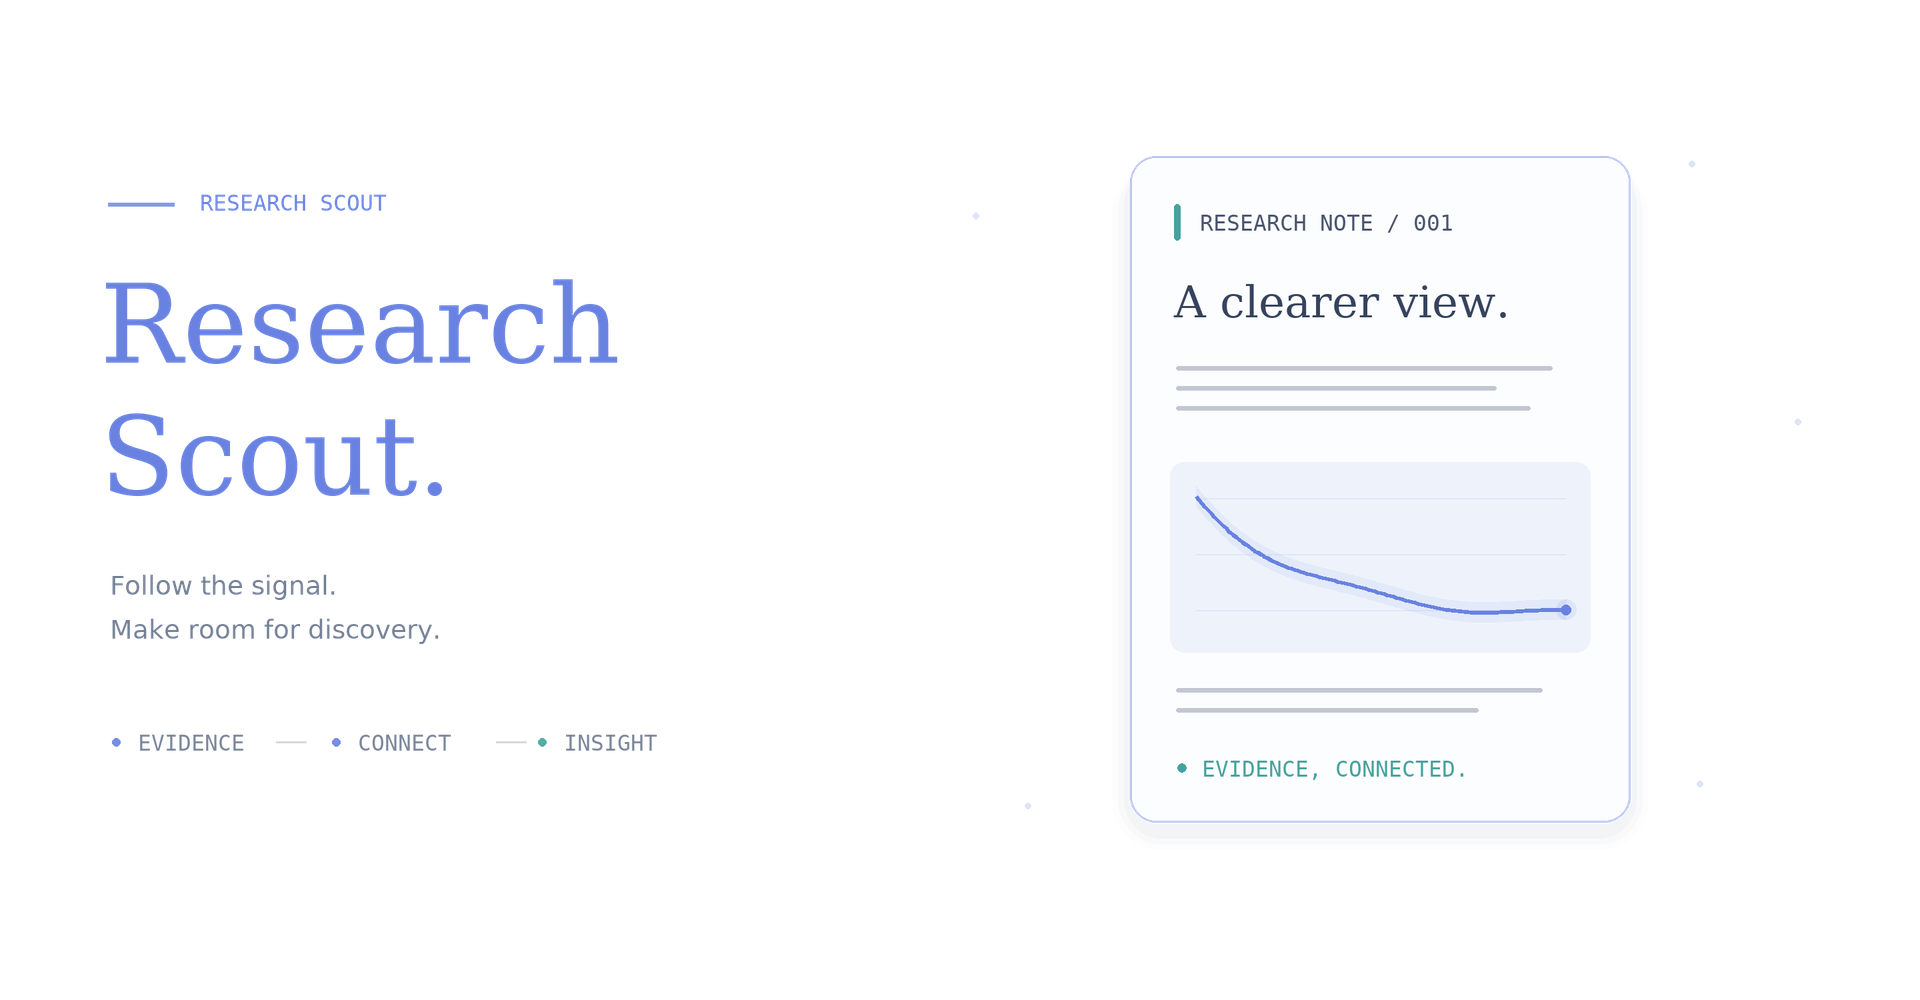
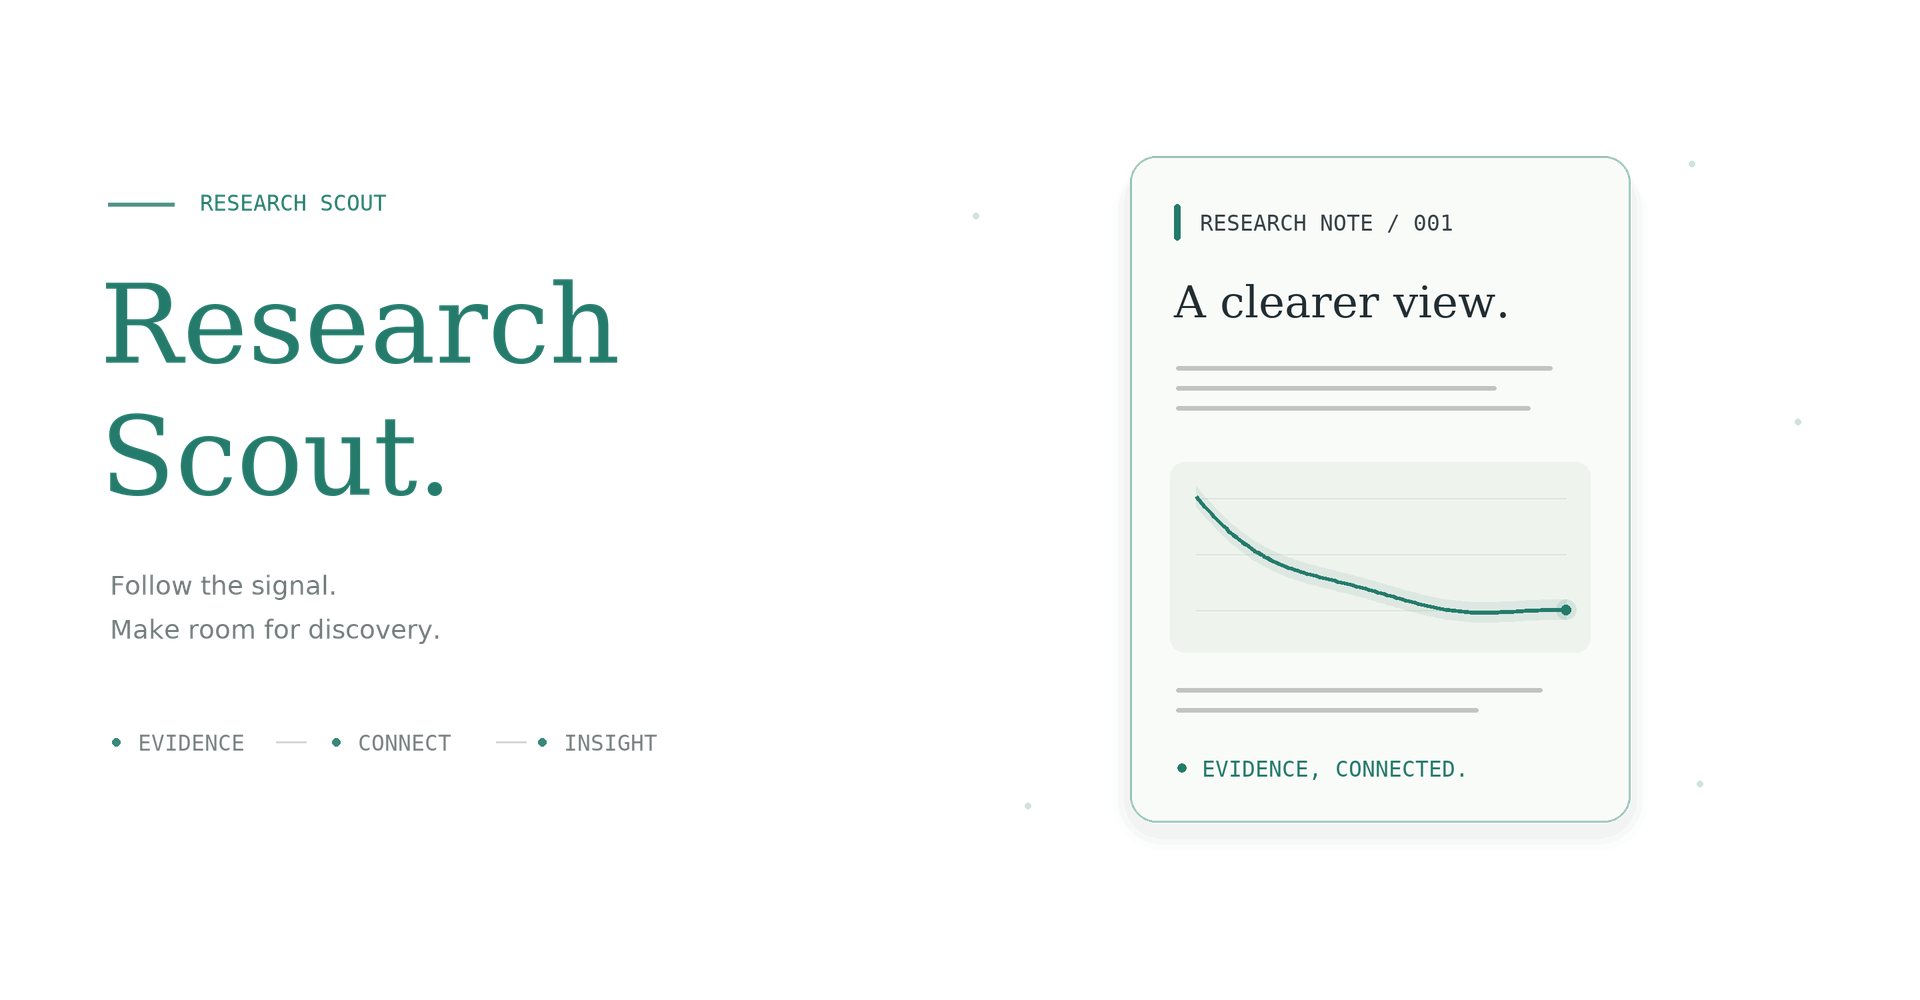
Match README animation to Research Harness green palette

diff --git a/scripts/render_readme_animation.py b/scripts/render_readme_animation.py
@@ -13,10 +13,10 @@ ROOT = Path(__file__).resolve().parents[1]
 WIDTH, HEIGHT, SCALE = 960, 500, 3
 OUTPUT_SCALE = 2
 FRAMES, DURATION = 300, 40  # 25 fps, 12 seconds, seamless resting endpoints.
-BLUE = (105, 130, 225)
-TEAL = (69, 163, 158)
-INK = (111, 123, 145)
-PAPER_INK = (54, 67, 94)
+# Shared with Research Harness: #247B6B / #6E7777 / #222D32.
+GREEN = (36, 123, 107)
+INK = (110, 119, 119)
+PAPER_INK = (34, 45, 50)
 FONTS = Path('/usr/share/fonts/truetype/dejavu')
 
 
@@ -81,7 +81,7 @@ class Painter:
             lambda d, c, ox, oy: d.text((x-ox, y-oy), value, font=face, fill=c,
                                         anchor=anchor), color, alpha)
 
-    def line(self, points, color=BLUE, alpha=1, width=1):
+    def line(self, points, color=GREEN, alpha=1, width=1):
         points = [(x*SCALE, y*SCALE) for x, y in points]
         pixels = max(1, round(width*SCALE))
         xs, ys = zip(*points)
@@ -90,20 +90,20 @@ class Painter:
             [(x-ox, y-oy) for x, y in points], fill=c, width=pixels, joint='curve'),
             color, alpha)
 
-    def rect(self, box, radius=0, color=BLUE, alpha=1, outline=False, width=1):
+    def rect(self, box, radius=0, color=GREEN, alpha=1, outline=False, width=1):
         box = tuple(v*SCALE for v in box)
         self.paint(box, lambda d, c, ox, oy: d.rounded_rectangle(
             (box[0]-ox, box[1]-oy, box[2]-ox, box[3]-oy), radius=radius*SCALE,
             fill=None if outline else c, outline=c if outline else None,
             width=max(1, round(width*SCALE))), color, alpha)
 
-    def dot(self, x, y, radius, color=BLUE, alpha=1):
+    def dot(self, x, y, radius, color=GREEN, alpha=1):
         box = ((x-radius)*SCALE, (y-radius)*SCALE,
                (x+radius)*SCALE, (y+radius)*SCALE)
         self.paint(box, lambda d, c, ox, oy: d.ellipse(
             (box[0]-ox, box[1]-oy, box[2]-ox, box[3]-oy), fill=c), color, alpha)
 
-    def polygon(self, points, color=BLUE, alpha=1):
+    def polygon(self, points, color=GREEN, alpha=1):
         points = [(x*SCALE, y*SCALE) for x, y in points]
         xs, ys = zip(*points)
         self.paint((min(xs), min(ys), max(xs), max(ys)),
@@ -114,20 +114,20 @@ class Painter:
 def background():
     image = Image.new('RGBA', (WIDTH*SCALE, HEIGHT*SCALE))
     p = Painter(image)
-    p.line([(54, 102), (87, 102)], BLUE, .8, 2)
-    p.text((100, 95), 'RESEARCH SCOUT', MONO, BLUE)
-    p.text((50, 130), 'Research', SERIF, BLUE)
-    p.text((50, 196), 'Scout.', SERIF, BLUE)
+    p.line([(54, 102), (87, 102)], GREEN, .8, 2)
+    p.text((100, 95), 'RESEARCH SCOUT', MONO, GREEN)
+    p.text((50, 130), 'Research', SERIF, GREEN)
+    p.text((50, 196), 'Scout.', SERIF, GREEN)
     p.text((55, 285), 'Follow the signal.', SANS, INK)
     p.text((55, 307), 'Make room for discovery.', SANS, INK, .95)
     for i, (x, label) in enumerate([(55, 'EVIDENCE'), (165, 'CONNECT'), (268, 'INSIGHT')]):
-        p.dot(x+3, 371, 2, TEAL if i == 2 else BLUE, .9)
+        p.dot(x+3, 371, 2, GREEN, .9)
         p.text((x+14, 365), label, MONO, INK, .9)
         if i < 2:
             p.line([(x+83, 371), (x+98, 371)], INK, .3)
     # A sparse constellation, with empty transparent space around the artwork.
     for x, y in [(488, 108), (846, 82), (899, 211), (850, 392), (514, 403)]:
-        p.dot(x, y, 1.5, BLUE, .22)
+        p.dot(x, y, 1.5, GREEN, .22)
     return image
 
 
@@ -147,8 +147,8 @@ def render(frame):
         if .02 < progress < .96:
             for lag in [0.014, .028]:
                 tx, ty = bezier(a, b, c, end, max(0, progress-lag))
-                p.dot(tx, ty, 1, TEAL if teal else BLUE, alpha*.16)
-        p.text((x, y), char, GLYPH, TEAL if teal else INK, alpha, 'mm')
+                p.dot(tx, ty, 1, GREEN, alpha*.16)
+        p.text((x, y), char, GLYPH, GREEN if teal else INK, alpha, 'mm')
 
     card = ease(t, .32, .52) * scene
     dy = 12*(1-ease(t, .32, .59))
@@ -157,9 +157,9 @@ def render(frame):
     for spread, opacity in [(9, .012), (6, .018), (3, .028)]:
         p.rect((x0-spread, y0+5, x1+spread, y1+spread+5), 16+spread,
                PAPER_INK, card*opacity)
-    p.rect((x0, y0, x1, y1), 13, (253, 254, 255), card*.98)
-    p.rect((x0, y0, x1, y1), 13, BLUE, card*.45, outline=True, width=1)
-    p.rect((x0+22, y0+24, x0+25, y0+42), 1.5, TEAL, card)
+    p.rect((x0, y0, x1, y1), 13, (250, 252, 249), card*.98)
+    p.rect((x0, y0, x1, y1), 13, GREEN, card*.45, outline=True, width=1)
+    p.rect((x0+22, y0+24, x0+25, y0+42), 1.5, GREEN, card)
     p.text((x0+35, y0+27), 'RESEARCH NOTE / 001', MONO, PAPER_INK, card*.9)
     reveal = ease(t, .43, .61)*card
     p.text((x0+22, y0+60), 'A clearer view.', SMALL_SERIF, PAPER_INK, reveal)
@@ -171,10 +171,10 @@ def render(frame):
     # The chart appears as a continuous curve with a soft confidence ribbon.
     chart = ease(t, .55, .76)
     chart_alpha = card*ease(t, .51, .60)
-    p.rect((585, 231+dy, 795, 326+dy), 7, (236, 241, 251), chart_alpha*.8)
+    p.rect((585, 231+dy, 795, 326+dy), 7, (237, 242, 237), chart_alpha*.8)
     for row in range(3):
         y = 249+row*28+dy
-        p.line([(598, y), (783, y)], BLUE, chart_alpha*.10, .65)
+        p.line([(598, y), (783, y)], GREEN, chart_alpha*.10, .65)
     pts = []
     for i in range(int(chart*120)+1):
         u = i/120
@@ -183,18 +183,18 @@ def render(frame):
         pts.append((x, y))
     if len(pts) > 1:
         polygon = [(x, y-5) for x, y in pts] + [(x, y+5) for x, y in reversed(pts)]
-        p.polygon(polygon, BLUE, chart_alpha*.09)
-        p.line(pts, BLUE, chart_alpha, 2.1)
+        p.polygon(polygon, GREEN, chart_alpha*.09)
+        p.line(pts, GREEN, chart_alpha, 2.1)
         x, y = pts[-1]
-        p.dot(x, y, 5, BLUE, chart_alpha*.12)
-        p.dot(x, y, 2.4, BLUE, chart_alpha)
+        p.dot(x, y, 5, GREEN, chart_alpha*.12)
+        p.dot(x, y, 2.4, GREEN, chart_alpha)
     for i, length in enumerate([183, 151]):
         u = ease(t, .68+i*.025, .79+i*.025)
         p.rect((588, 344+i*10+dy, 588+max(.01,length*u), 346+i*10+dy), 1,
                INK, card*.42*u)
     done = card*ease(t, .75, .82)
-    p.dot(591, 384+dy, 2.3, TEAL, done)
-    p.text((601, 378+dy), 'EVIDENCE, CONNECTED.', MONO, TEAL, done)
+    p.dot(591, 384+dy, 2.3, GREEN, done)
+    p.text((601, 378+dy), 'EVIDENCE, CONNECTED.', MONO, GREEN, done)
     return image.resize((WIDTH*OUTPUT_SCALE, HEIGHT*OUTPUT_SCALE), Image.Resampling.LANCZOS)
 
 

diff --git a/README.md b/README.md
@@ -1,7 +1,7 @@
 # Research Scout
 
 <p align="center">
-  <img src="assets/research-crystallization.webp?v=2x-lossless" alt="Research Scout: flowing evidence glyphs converge into a research note with a smooth blue curve, on a transparent background." width="960" />
+  <img src="assets/research-crystallization.webp?v=harness-green" alt="Research Scout: flowing evidence glyphs converge into a research note with a smooth deep-green curve, on a transparent background." width="960" />
 </p>
 
 <p align="center"><em>From scattered evidence to a clearer research picture.</em></p>
